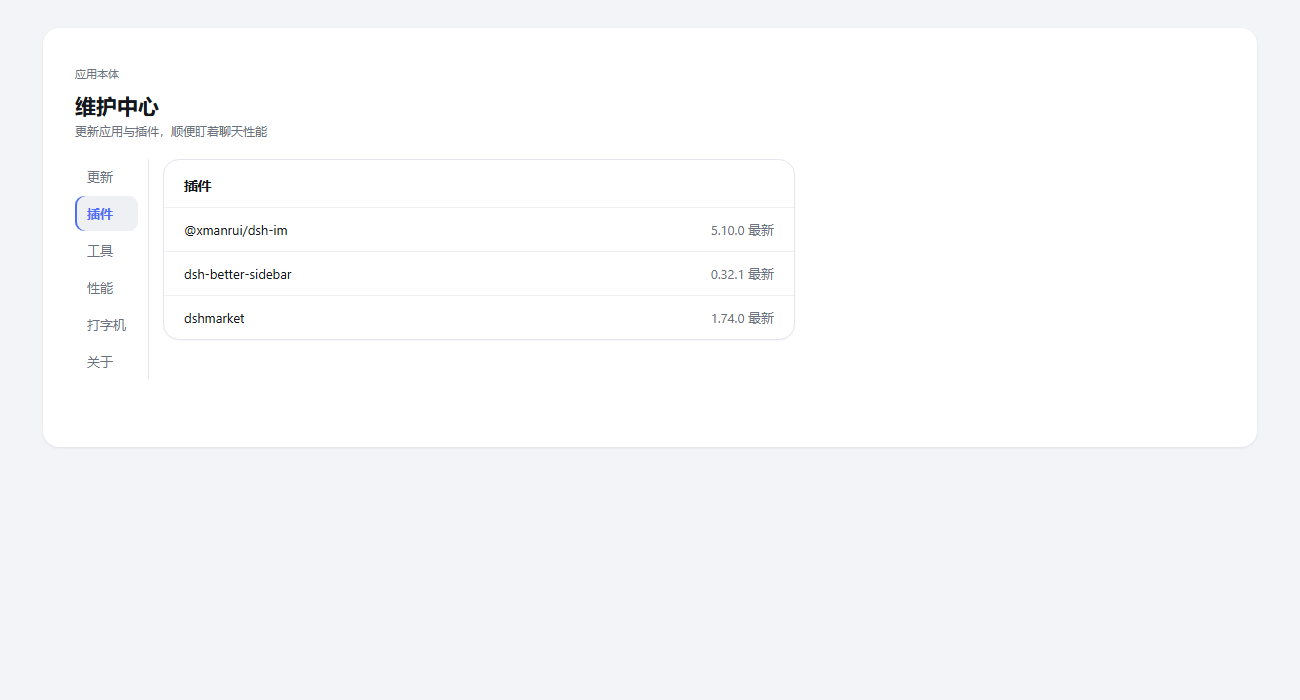
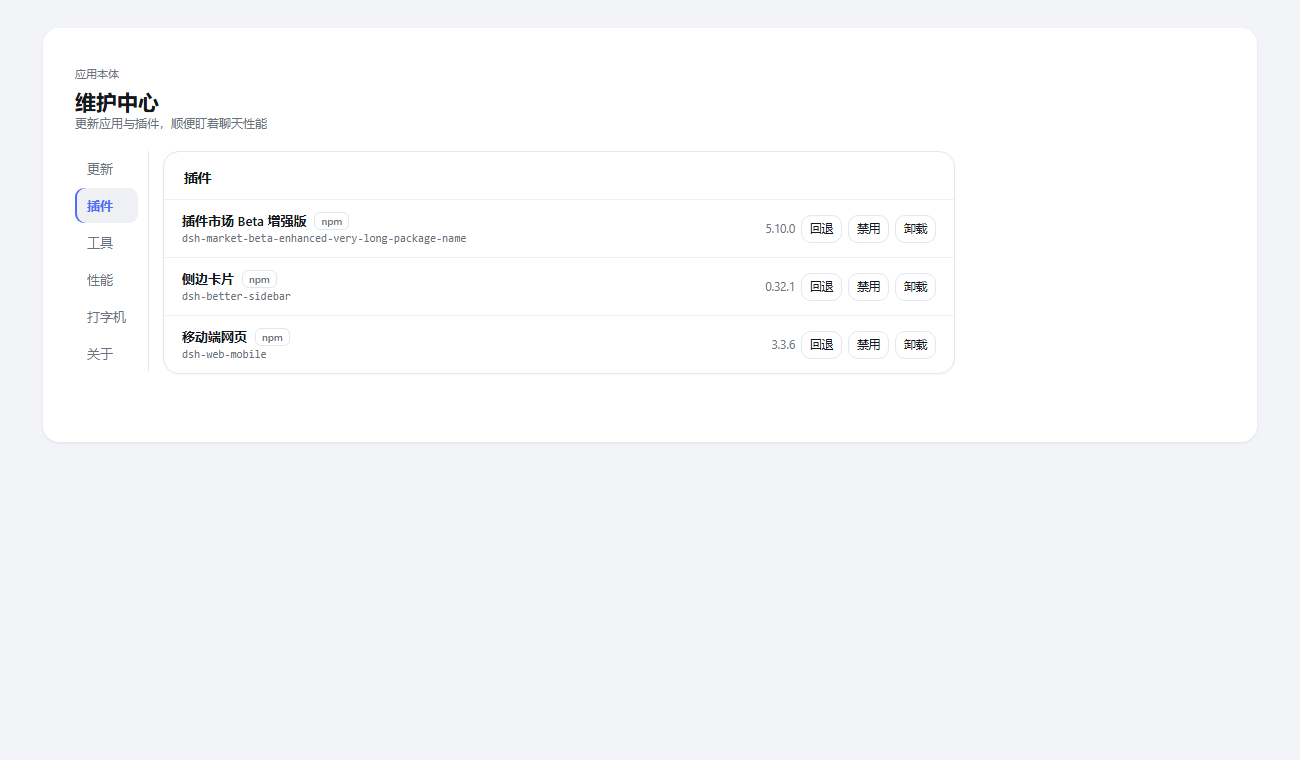
fix: plugin names wrap instead of truncating, release 0.1.36

diff --git a/docs/layout-preview.html b/docs/layout-preview.html
@@ -1,42 +1,51 @@
-<!doctype html>
+<!doctype html>
 <html lang="zh-CN">
 <head>
 <meta charset="utf-8">
 <title>维护中心布局预览</title>
 <style>
   :root {
-    --dsw-alias-bg-overlay: #ffffff;
     --dsw-alias-bg-layer-1: #ffffff;
     --dsw-alias-bg-layer-2: #eef0f4;
     --dsw-alias-border-l1: #e3e6ec;
-    --dsw-alias-border-l2: #d5d9e2;
     --dsw-alias-label-primary: #14171c;
     --dsw-alias-label-secondary: #6b7280;
+    --dsw-alias-state-success-primary: #16a34a;
     --uc-accent: #4f6ef7;
   }
   body { margin: 0; padding: 28px; background: #f2f4f8; font-family: -apple-system, "Segoe UI", "Microsoft YaHei", sans-serif; color: #14171c; }
   .dialog { max-width: 1150px; margin: 0 auto; background: #fff; border-radius: 16px; padding: 28px 32px; box-shadow: 0 1px 3px rgba(0,0,0,.08); }
-  .uc-root { display: flex; flex-direction: column; gap: 20px; max-width: 720px; padding: 10px 0 40px; font-size: 13px; }
-  .uc-head { display: flex; flex-direction: column; gap: 4px; }
+  .uc-root { display: flex; flex-direction: column; gap: 20px; max-width: 880px; padding: 10px 0 40px; font-size: 13px; }
+  .uc-kicker { font-size: 11px; color: #6b7280; margin-bottom: 6px; }
   .uc-title { margin: 0; font-size: 21px; font-weight: 650; }
   .uc-sub { margin: 0; font-size: 12px; color: #6b7280; }
   .uc-shell { display: grid; grid-template-columns: max-content minmax(0, 1fr); gap: 14px; align-items: start; }
-  .uc-rail { display: flex; flex-direction: column; gap: 2px; position: sticky; top: 4px; padding-right: 10px; border-right: 1px solid #e3e6ec; }
+  .uc-rail { display: flex; flex-direction: column; gap: 2px; padding-right: 10px; border-right: 1px solid #e3e6ec; }
   .uc-tab { width: 100%; text-align: left; padding: 9px 12px; border-radius: 9px; border: none; background: transparent; font-size: 13px; color: #6b7280; cursor: pointer; font-family: inherit; }
   .uc-tab:hover { background: #eef0f4; }
   .uc-tab[data-active="true"] { background: #eef0f4; color: #4f6ef7; font-weight: 600; box-shadow: inset 2px 0 0 #4f6ef7; }
   .uc-pane { display: flex; flex-direction: column; gap: 18px; min-width: 0; }
   .uc-card { border: 1px solid #e3e6ec; border-radius: 16px; background: #fff; box-shadow: 0 1px 2px rgba(0,0,0,.04); }
-  .uc-card-head { padding: 16px 20px 12px; font-weight: 600; font-size: 13.5px; }
-  .uc-row { display: flex; justify-content: space-between; padding: 13px 20px; border-top: 1px solid #eef0f4; }
-  .uc-muted { color: #6b7280; }
+  .uc-card-head { display: flex; align-items: center; justify-content: space-between; padding: 16px 20px 12px; font-weight: 600; font-size: 13.5px; }
+  .uc-rows { display: flex; flex-direction: column; }
+  .uc-row { display: flex; align-items: center; gap: 12px; padding: 12px 18px; border-top: 1px solid #eef0f4; }
+  .uc-row:hover { background: #f7f8fa; }
+  .uc-row-main { flex: 1; min-width: 0; }
+  .uc-row-name { display: flex; align-items: center; gap: 8px; font-weight: 550; }
+  .uc-row-name span:first-child { overflow-wrap: anywhere; white-space: normal; line-height: 1.35; }
+  .uc-row-pkg { margin-top: 2px; font-size: 11px; color: #6b7280; font-family: ui-monospace, Consolas, monospace; overflow-wrap: anywhere; }
+  .uc-row-act { flex: none; display: flex; align-items: center; gap: 6px; }
+  .uc-row-act .uc-btn { padding-left: 8px; padding-right: 8px; }
+  .uc-btn { min-height: 28px; padding: 0 12px; border: 1px solid #e3e6ec; border-radius: 10px; background: #fff; font-size: 11.5px; color: #14171c; cursor: pointer; font-family: inherit; }
+  .uc-tag { font-size: 10px; padding: 1px 6px; border-radius: 6px; border: 1px solid #e3e6ec; color: #6b7280; }
+  .uc-muted { color: #6b7280; font-size: 11.5px; }
 </style>
 </head>
 <body>
   <div class="dialog">
     <div class="uc-root">
       <div class="uc-head">
-        <div class="uc-kicker" style="font-size:11px;color:#6b7280;margin-bottom:6px;">应用本体</div>
+        <div class="uc-kicker">应用本体</div>
         <h1 class="uc-title">维护中心</h1>
         <p class="uc-sub">更新应用与插件，顺便盯着聊天性能</p>
       </div>
@@ -52,9 +61,44 @@
         <div class="uc-pane">
           <section class="uc-card">
             <div class="uc-card-head">插件</div>
-            <div class="uc-row"><span>@xmanrui/dsh-im</span><span class="uc-muted">5.10.0 最新</span></div>
-            <div class="uc-row"><span>dsh-better-sidebar</span><span class="uc-muted">0.32.1 最新</span></div>
-            <div class="uc-row"><span>dshmarket</span><span class="uc-muted">1.74.0 最新</span></div>
+            <div class="uc-rows">
+              <div class="uc-row">
+                <div class="uc-row-main">
+                  <div class="uc-row-name"><span>插件市场 Beta 增强版</span><span class="uc-tag">npm</span></div>
+                  <div class="uc-row-pkg">dsh-market-beta-enhanced-very-long-package-name</div>
+                </div>
+                <div class="uc-row-act">
+                  <span class="uc-muted">5.10.0</span>
+                  <button class="uc-btn">回退</button>
+                  <button class="uc-btn">禁用</button>
+                  <button class="uc-btn">卸载</button>
+                </div>
+              </div>
+              <div class="uc-row">
+                <div class="uc-row-main">
+                  <div class="uc-row-name"><span>侧边卡片</span><span class="uc-tag">npm</span></div>
+                  <div class="uc-row-pkg">dsh-better-sidebar</div>
+                </div>
+                <div class="uc-row-act">
+                  <span class="uc-muted">0.32.1</span>
+                  <button class="uc-btn">回退</button>
+                  <button class="uc-btn">禁用</button>
+                  <button class="uc-btn">卸载</button>
+                </div>
+              </div>
+              <div class="uc-row">
+                <div class="uc-row-main">
+                  <div class="uc-row-name"><span>移动端网页</span><span class="uc-tag">npm</span></div>
+                  <div class="uc-row-pkg">dsh-web-mobile</div>
+                </div>
+                <div class="uc-row-act">
+                  <span class="uc-muted">3.3.6</span>
+                  <button class="uc-btn">回退</button>
+                  <button class="uc-btn">禁用</button>
+                  <button class="uc-btn">卸载</button>
+                </div>
+              </div>
+            </div>
           </section>
         </div>
       </div>

diff --git a/client.js b/client.js
@@ -1428,14 +1428,15 @@ html[data-dsh-noanim="1"] [data-animating] {
 .uc-dot-ok { background: var(--dsw-alias-state-success-primary); }
 .uc-row-main { flex: 1; min-width: 0; }
 .uc-row-name { display: flex; align-items: center; gap: 8px; font-weight: 550; }
-.uc-row-name span:first-child { overflow: hidden; text-overflow: ellipsis; white-space: nowrap; }
+.uc-row-name span:first-child { overflow-wrap: anywhere; white-space: normal; line-height: 1.35; }
 .uc-tag { flex: none; font-size: 10px; padding: 1px 6px; border-radius: 999px; color: var(--dsw-alias-label-secondary); border: 1px solid var(--dsw-alias-border-l1); }
-.uc-row-pkg { margin-top: 2px; font-size: 11px; color: var(--dsw-alias-label-secondary); font-family: ui-monospace, SFMono-Regular, Menlo, Consolas, monospace; overflow: hidden; text-overflow: ellipsis; white-space: nowrap; }
+.uc-row-pkg { margin-top: 2px; font-size: 11px; color: var(--dsw-alias-label-secondary); font-family: ui-monospace, SFMono-Regular, Menlo, Consolas, monospace; overflow-wrap: anywhere; text-overflow: ellipsis; white-space: nowrap; }
 .uc-row-note { margin-top: 3px; font-size: 11px; color: var(--dsw-alias-label-secondary); }
 .uc-row-err { margin-top: 3px; font-size: 11px; color: var(--dsw-alias-state-error-primary); }
 .uc-vers { display: flex; align-items: baseline; justify-content: flex-end; gap: 6px; min-width: 128px; font-family: ui-monospace, SFMono-Regular, Menlo, Consolas, monospace; font-size: 12px; color: var(--dsw-alias-label-secondary); white-space: nowrap; }
 .uc-vers-next { color: var(--dsw-alias-state-success-primary); font-weight: 600; }
-.uc-row-act { flex: none; display: flex; align-items: center; gap: 8px; }
+.uc-row-act { flex: none; display: flex; align-items: center; gap: 6px; }
+.uc-row-act .uc-btn { padding-left: 8px; padding-right: 8px; }
 .uc-muted { font-size: 11px; color: var(--dsw-alias-label-secondary); }
 .uc-empty { padding: 34px 18px; display: flex; flex-direction: column; align-items: center; gap: 8px; color: var(--dsw-alias-label-secondary); font-size: 12px; }
 .uc-empty-icon { width: 34px; height: 34px; border-radius: 50%; border: 1px solid var(--dsw-alias-border-l1); display: flex; align-items: center; justify-content: center; color: var(--dsw-alias-state-success-primary); }
@@ -1545,7 +1546,7 @@ html[data-dsh-noanim="1"] [data-animating] {
 .uc-foot a:hover { color: var(--dsw-alias-label-primary); }
 
 /* --- polish --- */
-.uc-root { gap: 20px; padding: 10px 0 40px; }
+.uc-root { gap: 20px; padding: 10px 0 40px; max-width: 880px; }
 .uc-title { font-size: 21px; }
 .uc-tabs { gap: 4px; }
 .uc-tab { padding: 9px 12px 11px; border-radius: 9px 9px 0 0; }

diff --git a/CHANGELOG.md b/CHANGELOG.md
@@ -2,6 +2,10 @@
 
 版本规则：每次发版，最后一位 +1（0.1.1 → 0.1.2 → …）。
 
+## 0.1.36
+
+- 插件名不再截断：标题和包名允许换行（原来强制单行 + 省略号，长名字只剩「Bett…」「移…」）；内容区最宽放到 880px，行内按钮收紧内边距给名字让位
+
 ## 0.1.35
 
 - 收紧导航栏与内容之间的空隙：导航列改成按内容宽度（`max-content`），间距 14px，加一条细分隔线
